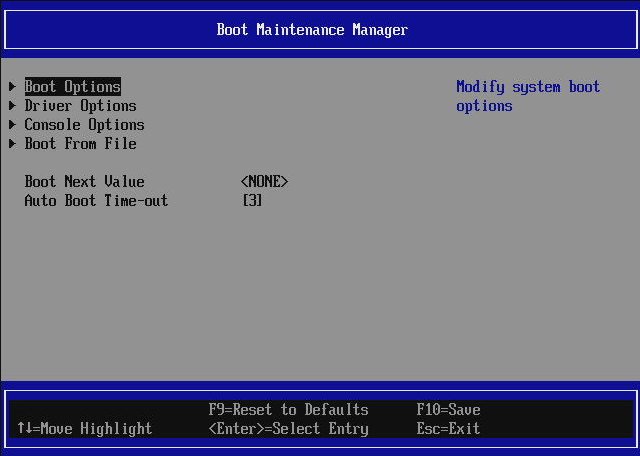
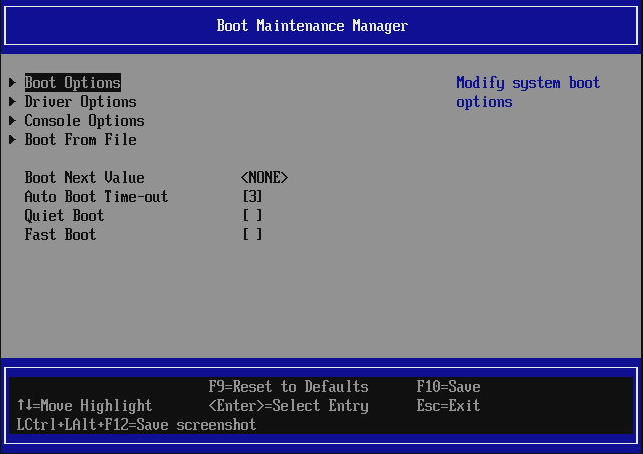
docs/dasharo-menu-docs/boot-maintenance-mgr.md: Add quiet and fast boot

diff --git a/docs/dasharo-menu-docs/boot-maintenance-mgr.md b/docs/dasharo-menu-docs/boot-maintenance-mgr.md
@@ -13,6 +13,30 @@ driver options, but it is rather rarely used.
   firmware should wait for hotkey to enter setup menu or [Boot Manager Menu](overview.md#boot-manager-menu)
   before booting the first priority according to boot order or
   `Boot Next Value` (if it was set before reset)
+* `Quiet Boot` - suppresses the boot prompt and progress bar from being
+  printed on the screen resulting in a smooth graphical experience during boot
+  by displaying the logo only.
+* `Fast Boot` - limits the hardware initialization to necessary minimum to
+  improve the boot time performance. Input consoles become available only on
+  demand (e.g. when entering setup or OS bootloader or any EFI application
+  which attempts to read key strokes), meaning it will not be possible to
+  enter setup or boot manager menu using hotkeys. The auto boot timeout
+  becomes 0 seconds. Only VGA OptionROMs are being executed (if OptionROMs are
+  enabled). Only FAT filesystem driver is available. Making screenshots is not
+  possible. Also behaves like quiet boot. The only ways to disable fast boot
+  are:
+    - changing the fast boot EFI variable from OS to 0/false (on Linux using
+      `efivarfs` or PowerShell on Windows with [3rd party PowerShell
+      modules](https://www.powershellgallery.com/packages/UEFIv2))
+    - requesting to enter the Setup from OS
+        * Linux: using `UEFI Firmware Settings` entry in GRUB menu, or setting
+         `Boot Next` to enter Setup on next boot using `efibootmgr`, then
+         disabling the option in the setup
+        * Windows: through [Windows Recovery
+          Environment](https://support.microsoft.com/en-us/windows/windows-recovery-environment-0eb14733-6301-41cb-8d26-06a12b42770b)
+          -> `Troubleshooting` -> `UEFI Firmware Settings` or Windows Power
+          Shell command `shutdown /r /fw` as admin, then disabling the
+          option in the setup
 
 ## Boot Options
 
